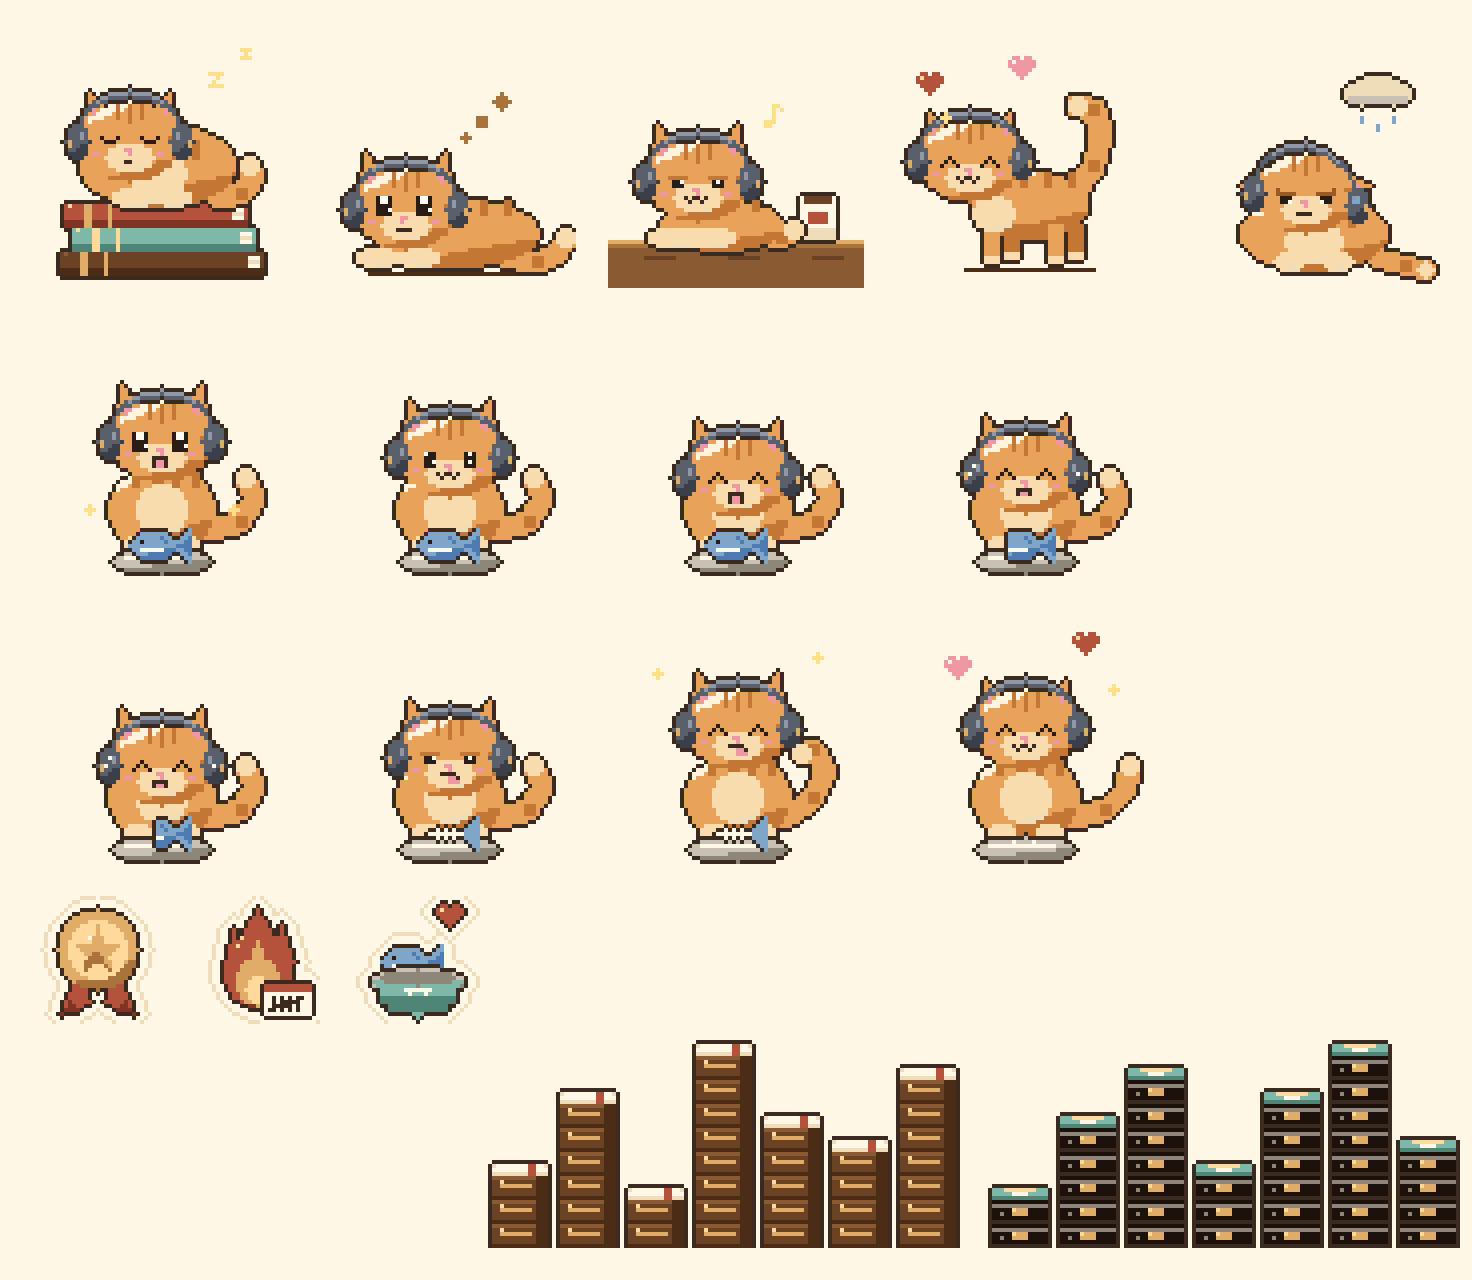
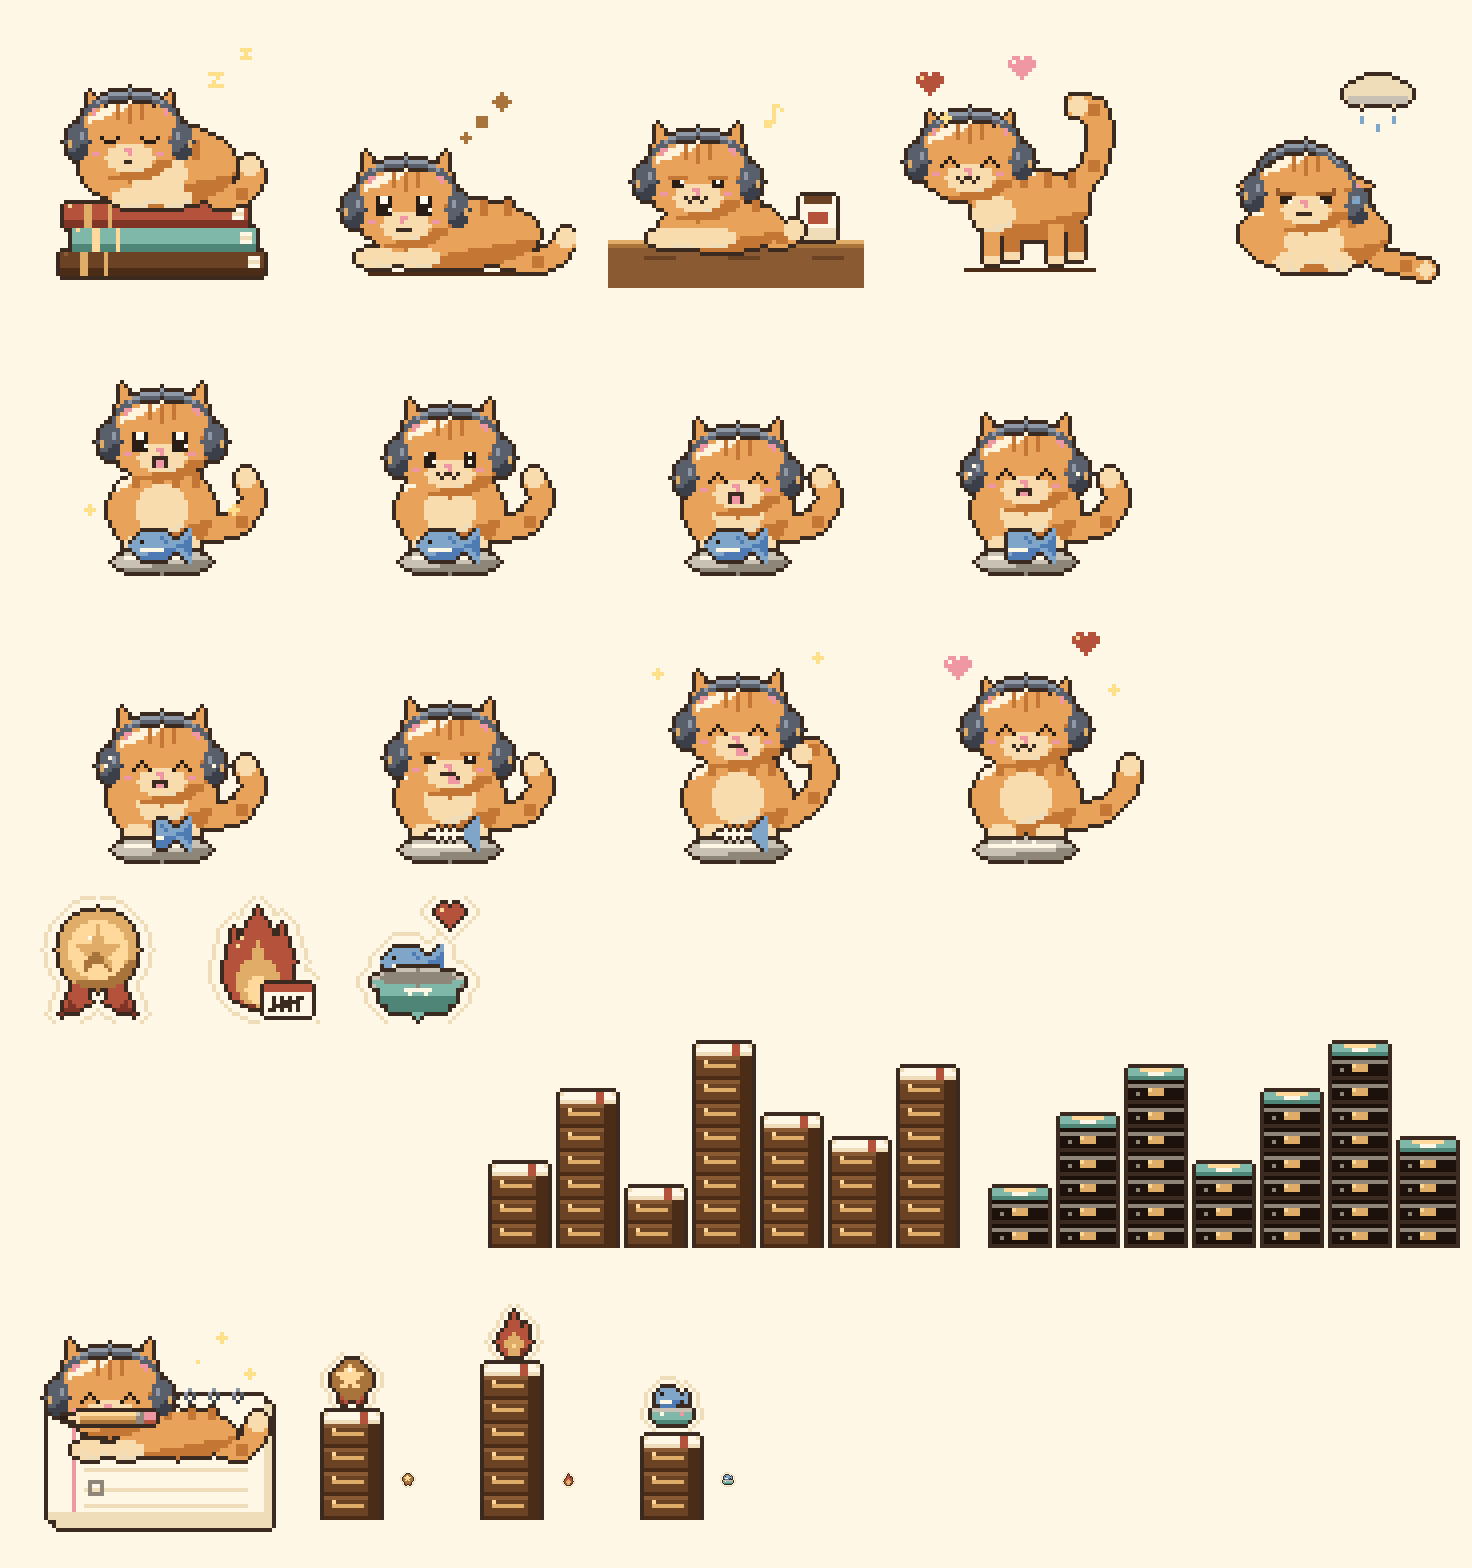
art: todo-empty cat on blank notepad + 16px narrow-screen stickers

diff --git a/scripts/art/cat-mood.py b/scripts/art/cat-mood.py
@@ -430,6 +430,77 @@ def bar_record_cap():
     g.rect(1, 1, 14, 3, 't'); g.rect(1, 3, 14, 3, 'T'); g.rect(4, 1, 11, 1, 'A'); g.rect(6, 2, 9, 2, 'c')  # sleeve top with title tag
     return g
 
+
+# ---------------------------------------------------------------- todo page empty state 64x64
+def pencil(g, x0, y, x1):
+    """Horizontal pencil from x0 (tip) to x1 (eraser), 3px thick, centred on y."""
+    g.rect(x0 + 4, y - 1, x1 - 4, y + 1, 'a'); g.rect(x0 + 4, y + 1, x1 - 4, y + 1, 'b'); g.rect(x0 + 4, y - 1, x1 - 4, y - 1, 'A')
+    g.tri([(x0, y), (x0 + 4, y - 1), (x0 + 4, y + 1)], 'l'); g.put(x0, y, 'e'); g.put(x0 + 1, y, 'e')
+    g.rect(x1 - 4, y - 1, x1 - 3, y + 1, 'Q'); g.put(x1 - 4, y - 1, 'q')
+    g.rect(x1 - 2, y - 1, x1, y + 1, 'p'); g.rect(x1 - 2, y + 1, x1, y + 1, 'r')
+
+def todo_empty():
+    g = G()
+    # blank notepad, spiral binding on top, faint empty rules and an unticked box
+    pad = G()
+    pad.rect(6, 31, 59, 61, 'C')            # back sheets peeking out
+    pad.rect(4, 29, 57, 59, 'c'); pad.rect(4, 58, 57, 59, 'C')
+    for y in (47, 52, 56): pad.rect(13, y, 53, y, 'C')
+    pad.rect(10, 31, 10, 57, 'p')
+    pad.outline(); g.paste(pad)
+    for x in range(8, 56, 6):
+        g.put(x, 28, 'H'); g.put(x, 29, 'h'); g.put(x + 1, 27, 'H'); g.put(x + 1, 30, 'j'); g.put(x + 2, 28, 'h'); g.put(x + 2, 29, 'j')
+    g.rect(14, 50, 17, 50, 'Q'); g.rect(14, 53, 17, 53, 'Q'); g.rect(14, 50, 14, 53, 'Q'); g.rect(17, 50, 17, 53, 'Q')
+    c = G()
+    tail(c, [(47, 41), (52, 42), (55, 39), (56, 35)])
+    c.ell(36, 38, 14, 5.5, 'f', shade='F', lit='L', sk=.45)
+    for dx in (-3, 3, 8): c.rect(36 + dx, 32, 37 + dx, 34, 'F')
+    for x0 in (14, 23): c.ell(x0, 42, 4, 2, 'l', shade='C', sk=.55); c.put(x0 - 2, 43, 'C'); c.put(x0, 43, 'C')
+    head(c, 19, 29, eyes='happy', mouth='flat', ear='up')
+    phones(c, 19, 29)
+    c.outline(); g.paste(c)
+    # pencil held crosswise in the mouth, tip poking out left, eraser right
+    pc = G(); pencil(pc, 7, 34, 30); pc.outline(); g.paste(pc)
+    sparkle(g, 47, 14); g.put(41, 20, 'z'); sparkle(g, 54, 23)
+    return g
+
+# ---------------------------------------------------------------- stickers 16x16 (narrow screens, sit on top of a bar)
+def die_cut_sm(g):
+    """1px paper border + 1px soft edge; the icon itself carries its own ink outline."""
+    for col in ('c', 'C'):
+        out = [row[:] for row in g.g]
+        for y in range(g.h):
+            for x in range(g.w):
+                if g.g[y][x] is None and any(g.get(x + dx, y + dy) for dx, dy in ((1,0),(-1,0),(0,1),(0,-1))): out[y][x] = col
+        g.g = out
+
+def sticker_best_day_sm():
+    g = G(16, 16)
+    g.rect(5, 10, 6, 12, 'r'); g.rect(9, 10, 10, 12, 'r'); g.put(5, 12, 'R'); g.put(10, 12, 'R')
+    g.ell(7.5, 6.5, 4.4, 4.4, 'b')
+    for j, row in enumerate(['...X...', '..XXX..', 'XXXXXXX', '.XXXXX.', '..XXX..', '.XX.XX.']):
+        for i, ch in enumerate(row):
+            if ch == 'X': g.put(4 + i, 3 + j, 'A')
+    g.put(7, 4, 'c')
+    g.outline(); die_cut_sm(g)
+    return g
+
+def sticker_streak_sm():
+    g = G(16, 16)
+    g.ell(8, 9, 3.6, 3.4, 'r', shade='R', sk=.6); g.tri([(8, 2), (4.5, 8), (11.5, 8)], 'r'); g.put(11, 5, 'r'); g.put(11, 6, 'r')
+    g.ell(8, 9.6, 1.8, 2.2, 'a'); g.put(8, 7, 'a'); g.put(8, 10, 'A')
+    g.outline(); die_cut_sm(g)
+    return g
+
+def sticker_fed_sm():
+    g = G(16, 16)
+    f = G(16, 16)
+    f.ell(6.5, 5, 2.8, 1.8, 's', shade='S', sk=.4); f.tri([(9, 5), (11.5, 3), (11.5, 7)], 's'); f.put(5, 4, 'e'); f.rect(5, 6, 7, 6, 'c')
+    f.rect(3, 8, 12, 8, 'q'); f.rect(3, 9, 12, 10, 't'); f.rect(4, 11, 11, 11, 'T'); f.put(5, 9, 'c'); f.put(10, 9, 'p')
+    f.outline(); g.paste(f)
+    die_cut_sm(g)
+    return g
+
 def save(g, name):
     os.makedirs(OUT, exist_ok=True); im = g.img(); im.save(f'{OUT}/{name}.png', optimize=True); return im
 
@@ -440,11 +511,13 @@ if __name__ == '__main__':
     for i, f in enumerate(frames): sheet.paste(f, (64 * i, 0))
     sheet.save(f'{OUT}/cat-eat.png', optimize=True)
     stick = {n: save(f(), n) for n, f in [('sticker-best-day', sticker_best_day), ('sticker-streak', sticker_streak), ('sticker-fed', sticker_fed)]}
+    todo = save(todo_empty(), 'todo-empty')
+    stick_sm = {n: save(f(), n) for n, f in [('sticker-best-day-sm', sticker_best_day_sm), ('sticker-streak-sm', sticker_streak_sm), ('sticker-fed-sm', sticker_fed_sm)]}
     bars = {n: save(f(), n) for n, f in [('bar-book', bar_book_unit), ('bar-book-cap', bar_book_cap), ('bar-record', bar_record_unit), ('bar-record-cap', bar_record_cap)]}
 
     # ---- 4x preview sheet on journal paper
     Z = 4; pad = 8
-    W = (64 * 5 + pad * 6) * Z; H = (pad * 6 + 64 * 3 + 32 + 48) * Z
+    W = (64 * 5 + pad * 6) * Z; H = (pad * 7 + 64 * 4 + 32 + 48) * Z
     bg = Image.new('RGBA', (W, H), rgba('c'))
     def put(im, x, y): bg.alpha_composite(im.resize((im.width * Z, im.height * Z), Image.NEAREST), (x * Z, y * Z))
     for i, n in enumerate(poses): put(poses[n], pad + i * (64 + pad), pad)
@@ -457,6 +530,14 @@ if __name__ == '__main__':
             bx = x0 + (j * 7 + k) * 17 + j * 6; base = pad * 5 + 192 + 32 + 48
             for m in range(n): put(bars[u], bx, base - 6 * (m + 1))
             put(bars[cap], bx, base - 6 * n - 4)
+    # row 4: todo empty state + 16px stickers (1x-scale true size beside the 4x copy) atop bars
+    ry = pad * 6 + 192 + 32 + 48
+    put(todo, pad, ry)
+    for i, n in enumerate(stick_sm):
+        bx = pad + 64 + pad + i * 40; nb = [4, 6, 3][i]; put(stick_sm[n], bx, ry + 60 - 6 * nb - 4 - 14)
+        for m in range(nb): put(bars['bar-book'], bx, ry + 60 - 6 * (m + 1))
+        put(bars['bar-book-cap'], bx, ry + 60 - 6 * nb - 4)
+        bg.alpha_composite(stick_sm[n], ((bx + 20) * Z, (ry + 48) * Z))   # true 1x size
     os.makedirs('docs/media', exist_ok=True); bg.convert('RGB').save('docs/media/cat-mood-sheet.png', optimize=True)
     # ---- eat-cycle GIF (4x, 120ms/frame, longer hold on the satisfied end)
     gif = []
